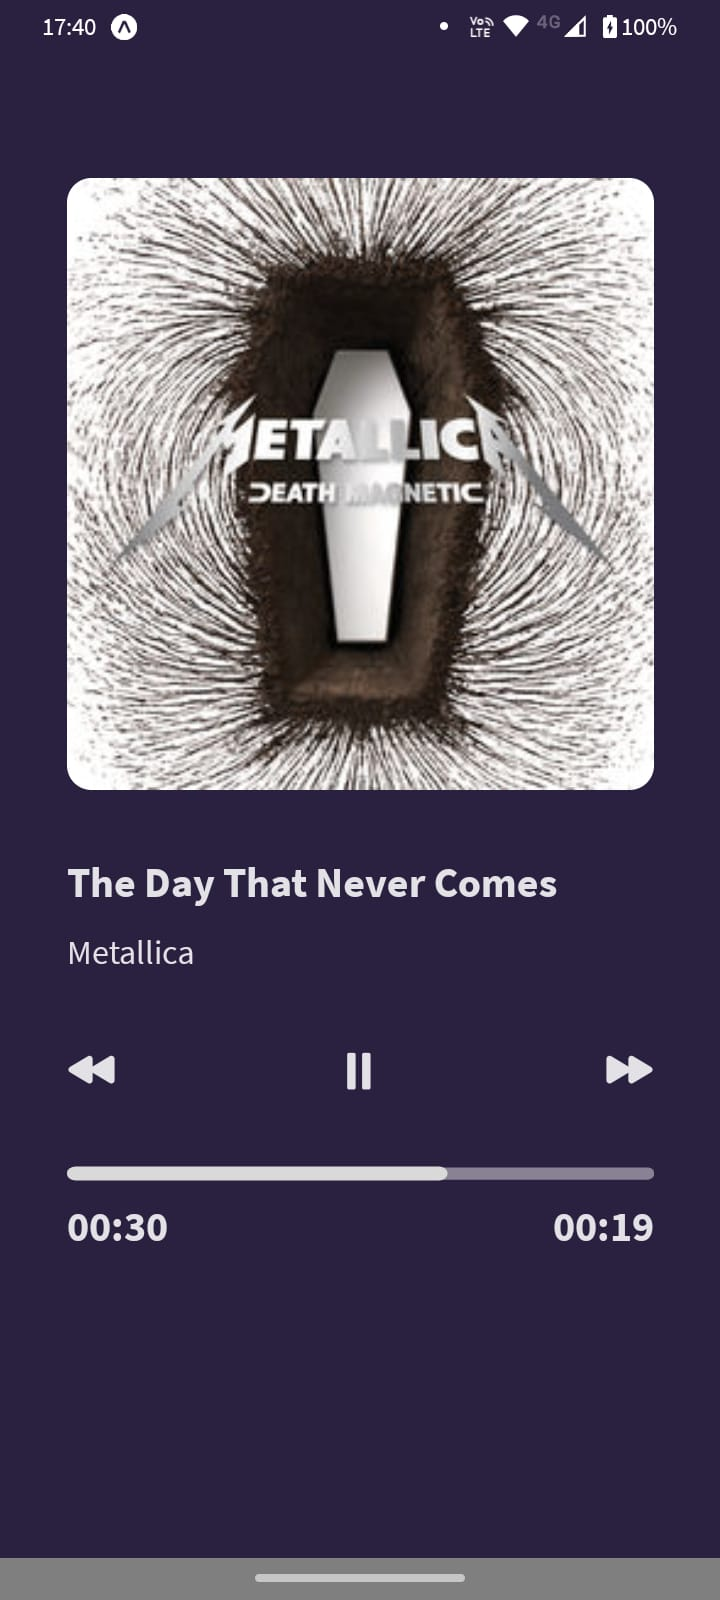
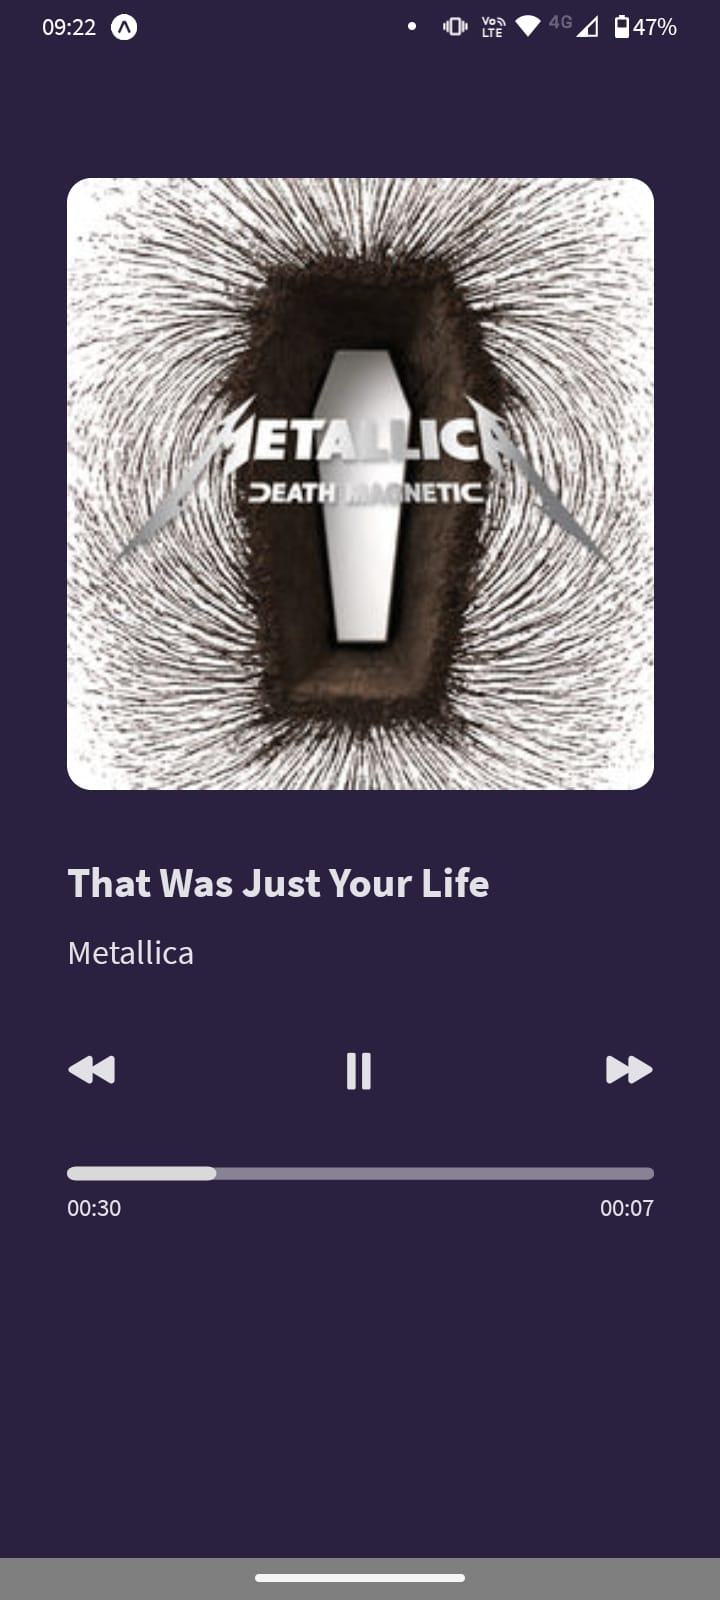
altera estilo da contagem e img do projeto

diff --git a/src/components/player/PlayerComponent.tsx b/src/components/player/PlayerComponent.tsx
@@ -61,8 +61,8 @@ export const PlayerComponent = ({
       <View>
         <ProgressBar percent={statusProgressBar} />
         <View style={Style.durationContainer}>
-          <Text style={Global.title}>{formattedTime(totalDuration).time}</Text>
-          <Text style={Global.title}>{formattedTime(currentTime).time}</Text>
+          <Text style={Style.time}>{formattedTime(totalDuration).time}</Text>
+          <Text style={Style.time}>{formattedTime(currentTime).time}</Text>
         </View>
       </View>
     </View>

diff --git a/src/components/player/style.ts b/src/components/player/style.ts
@@ -1,4 +1,5 @@
 import { StyleSheet } from "react-native";
+import colors from '../../styles/colors.json';
 
 export const Style = StyleSheet.create({
   playerContainer: {
@@ -13,5 +14,11 @@ export const Style = StyleSheet.create({
   durationContainer: {
     flexDirection: 'row',
     justifyContent: "space-between"
+  },
+
+  time: {
+    fontSize: 14,
+    fontWeight: '400',
+    color: colors.title
   }
 })
